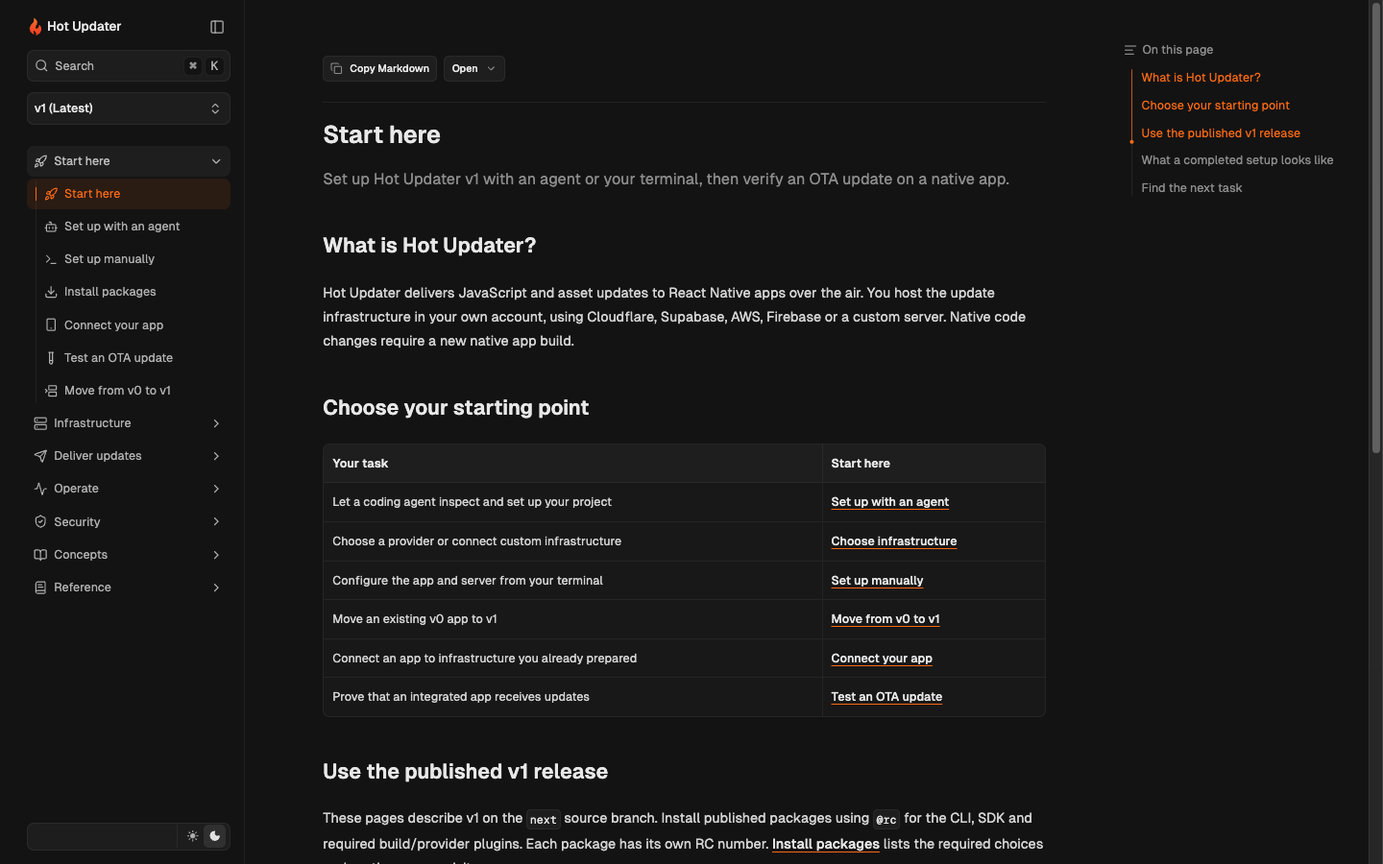
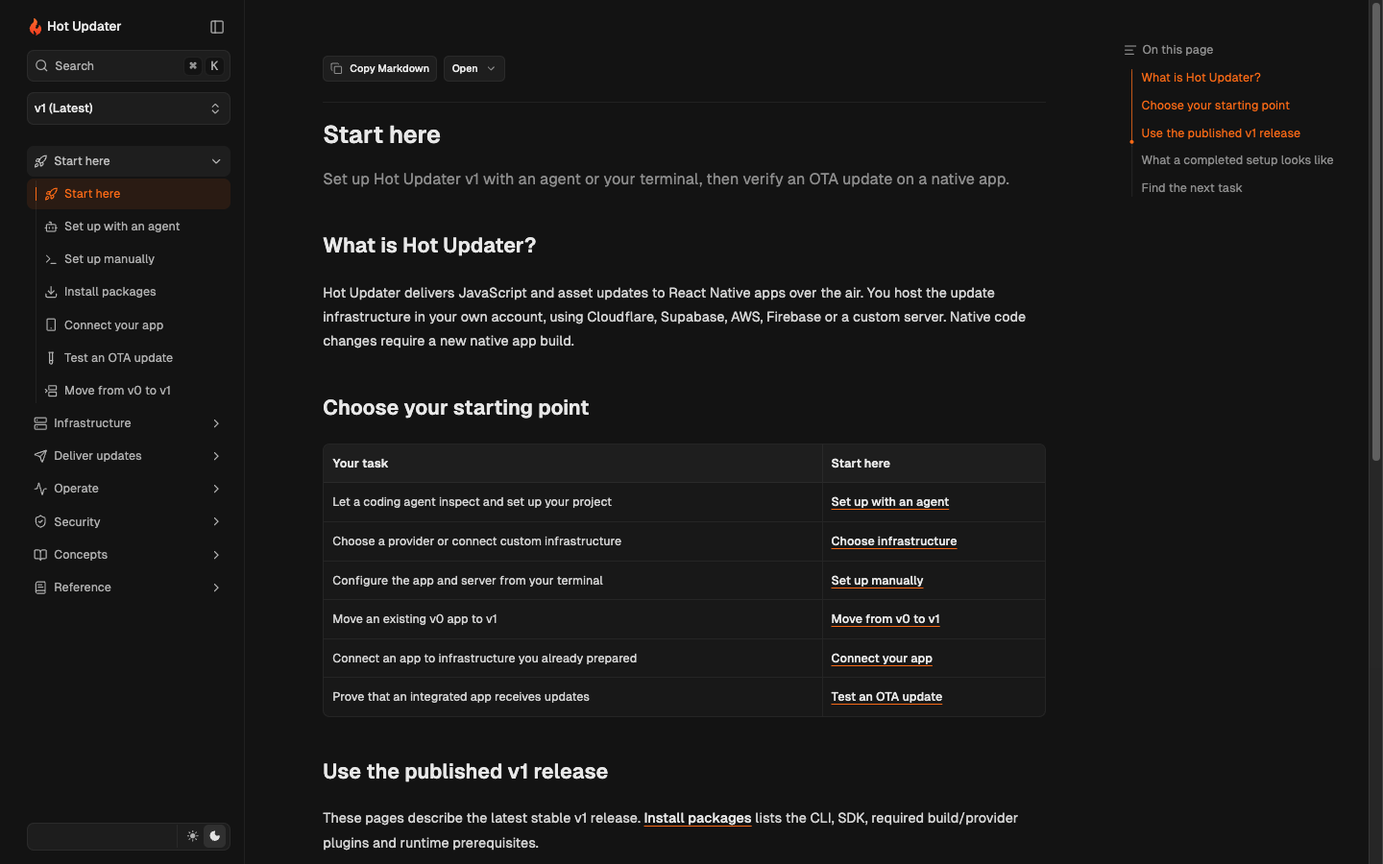
docs: target stable v1 releases in installation guides

Changed region(s): [[0.2188, 0.9333, 0.75, 0.9956]]

diff --git a/plans/docs-v1-onboarding/page-inventory.md b/plans/docs-v1-onboarding/page-inventory.md
@@ -6,18 +6,18 @@ Baseline: `next` at `ac67b805583b423d556ea0d62650b4cd2aa5006b`. All **86/86** ex
 
 | Page | Purpose / persona | Audit assessment | Accepted disposition in this PR |
 | --- | --- | --- | --- |
- | `build-plugins/bare.mdx` | Configure RN CLI bundling; app maintainer | 46 focused lines and accurate options; minification wording at 45 ambiguous (“handled by Hermes (disabled when Hermes is enabled)”). | Keep focused build reference; select @rc, clarify Hermes/Metro minification. |
- | `build-plugins/expo.mdx` | Configure Expo build + native config + DOM; Expo maintainer | 206 lines; basic build options are 12–36, DOM patch occupies 69–198 and is only for SDK <55. | Keep focused build reference and anchored DOM recipe; select @rc. Additional DOM-page split deferred. |
- | `build-plugins/rock.mdx` | Configure Rock build; Rock maintainer | 44 focused lines; distinct hermes option and defaults match `plugins/rock/src/index.ts:75+`. | Keep focused build reference; select @rc. Do not merge with Bare. |
+ | `build-plugins/bare.mdx` | Configure RN CLI bundling; app maintainer | 46 focused lines and accurate options; minification wording at 45 ambiguous (“handled by Hermes (disabled when Hermes is enabled)”). | Keep focused build reference; use untagged stable install commands, clarify Hermes/Metro minification. |
+ | `build-plugins/expo.mdx` | Configure Expo build + native config + DOM; Expo maintainer | 206 lines; basic build options are 12–36, DOM patch occupies 69–198 and is only for SDK <55. | Keep focused build reference and anchored DOM recipe; use untagged stable install commands. Additional DOM-page split deferred. |
+ | `build-plugins/rock.mdx` | Configure Rock build; Rock maintainer | 44 focused lines; distinct hermes option and defaults match `plugins/rock/src/index.ts:75+`. | Keep focused build reference; use untagged stable install commands. Do not merge with Bare. |
  | `concepts/automatic-rollback.mdx` | Understand/test native startup recovery | Core mechanism and exact Artifact ID blocking distinguish it from operational disable (111–128). Strong keeper; API samples repeat reference but lifecycle explanation useful. | Keep native recovery explanation and URL; move navigation to Operate, distinct from server policy rollback. |
  | `concepts/how-it-works.mdx` | Evaluate / understand Bundle identity, infrastructure and rollback | Strong concise v1 model (9–16, 39–62); keep Bundle vs Artifact distinction. Infrastructure link points to fragile old setup fragment (30). | Keep under Concepts; correct server-catalog/client-selection ownership and link startup/active-state verification. |
  | `concepts/plugin-system.mdx` | Choose/extend build, storage, database, signing plugins | Package decomposition is reference context, not first-run dependency. Signing protocol detail (23–46) dominates supported build overview. | Keep conceptual overview unchanged under Concepts; deeper protocol trimming deferred. |
  | `custom/api-key-authentication.mdx` | Bootstrap/rotate client keys; managed and custom operators | Distinguishes all key boundaries and managed bootstrap correctly; line 57 universally recommends `db migrate` although Drizzle/Prisma reject it. | Keep bootstrap/rotation task under Security; replace universal db migrate with adapter-specific schema preparation. |
  | `custom/cli-configuration.mdx` | Connect RN deploy tooling to existing server; operator | Configuration at 23–55 is task-specific. Options, secure/alternate authentication, custom routes and endpoint table at 70–178 duplicate `database-plugins/standalone`. | Keep one complete server-to-CLI connection task; merge options/HTTP-reference ownership into existing standalone page via links. |
- | `custom/database/drizzle.mdx` | Integrate Drizzle schema/adapter; existing Drizzle owner | Schema generation/Drizzle Kit flow is unique (64–100), while CLI configuration (102–145) and client endpoint table (146+) repeat unrelated layers. | Keep adapter-specific schema/runtime recipe; merge repeated CLI config into the canonical connection task via direct links; select @rc. |
- | `custom/database/kysely.mdx` | Integrate Kysely and migrations; existing Kysely owner | Generate/migrate distinction (62–92) is essential; CLI configuration from 94 and endpoints from 138 duplicate shared docs. | Keep adapter-specific schema/runtime recipe; merge repeated CLI config into the canonical connection task via direct links; select @rc. |
- | `custom/database/mongodb.mdx` | Integrate MongoDB with atomic writes; MongoDB owner | Replica set/sharded cluster requirement and `transactions: true` at 60 are consequential and must be found before install; rest repeats CLI/routes from 77. | Keep adapter-specific schema/runtime recipe; merge repeated CLI config into the canonical connection task via direct links; select @rc. |
- | `custom/database/prisma.mdx` | Integrate Prisma/generated schema; existing Prisma owner | Prisma 6.19.3 initial-client bootstrap and query semantics are unique; CLI block from 103/endpoints from 147 repeat all other adapters. | Keep adapter-specific schema/runtime recipe; merge repeated CLI config into the canonical connection task via direct links; select @rc. |
+ | `custom/database/drizzle.mdx` | Integrate Drizzle schema/adapter; existing Drizzle owner | Schema generation/Drizzle Kit flow is unique (64–100), while CLI configuration (102–145) and client endpoint table (146+) repeat unrelated layers. | Keep adapter-specific schema/runtime recipe; merge repeated CLI config into the canonical connection task via direct links; use untagged stable install commands. |
+ | `custom/database/kysely.mdx` | Integrate Kysely and migrations; existing Kysely owner | Generate/migrate distinction (62–92) is essential; CLI configuration from 94 and endpoints from 138 duplicate shared docs. | Keep adapter-specific schema/runtime recipe; merge repeated CLI config into the canonical connection task via direct links; use untagged stable install commands. |
+ | `custom/database/mongodb.mdx` | Integrate MongoDB with atomic writes; MongoDB owner | Replica set/sharded cluster requirement and `transactions: true` at 60 are consequential and must be found before install; rest repeats CLI/routes from 77. | Keep adapter-specific schema/runtime recipe; merge repeated CLI config into the canonical connection task via direct links; use untagged stable install commands. |
+ | `custom/database/prisma.mdx` | Integrate Prisma/generated schema; existing Prisma owner | Prisma 6.19.3 initial-client bootstrap and query semantics are unique; CLI block from 103/endpoints from 147 repeat all other adapters. | Keep adapter-specific schema/runtime recipe; merge repeated CLI config into the canonical connection task via direct links; use untagged stable install commands. |
  | `custom/database/sql-export.mdx` | Export SQL without config; DBA/infra agent | 76 focused lines; dialect and overwrite semantics differ from ORM generation and solve a separate job. | Keep focused reference and existing URL; reachable through task-oriented navigation. |
  | `custom/frameworks/elysia.mdx` | Mount scoped admin sub-app; Elysia owner | Bearer plugin and scoped hook differ from Hono/Express; optional Insights table at 100 is stale. | Keep framework-specific authentication and mounting; replace optional-Insights wording and duplicate mobile snippets with canonical app/CLI links. |
  | `custom/frameworks/express.mdx` | Mount Node adapter and protect handlers; Express owner | `toNodeHandler`, JSON body parser and mount-local auth are unique; optional Insights table at 111 is stale. | Keep framework-specific authentication and mounting; replace optional-Insights wording and duplicate mobile snippets with canonical app/CLI links. |
@@ -26,17 +26,17 @@ Baseline: `next` at `ac67b805583b423d556ea0d62650b4cd2aa5006b`. All **86/86** ex
  | `custom/hosting/vercel.mdx` | Deploy custom server on Vercel/Postgres; server deployer | Correct transaction-capable `pg` driver and env note; lines 188+ repeat RN CLI block; `.env.local` explicitly not loaded by hot-updater. | Keep Vercel deployment; consolidate CLI/app continuation and explicitly install the CLI for schema tooling. |
  | `custom/overview.mdx` | Choose self-hosting and compose existing stack; backend owner | Starts with two package-install blocks, then repeats CLI configuration at 33–73, detailed URI routing, handler policy and four ORM/three framework choices. | Rewrite as custom-server decision/architecture/schema map; remove repeated full app CLI tutorial and route to canonical tasks. |
  | `custom/quick-start.mdx` | One runnable self-hosted vertical slice; first-time backend owner/agent | Hono + SQLite + R2 setup has schema/key/bootstrap, but title omits chosen stack; next steps at 284 send back to already-completed CLI config; no first OTA success evidence. | Keep runnable Hono/SQLite/R2 server and CLI slice; merge native app instructions into app-setup. Require reachable HTTPS before release OTA test. |
- | `database-plugins/aws.mdx` | Configure DynamoDB provider/limits; integrator | Table command, strong reads, 8 KiB metadata and transaction cap are AWS-specific; “Complete Example” omits required build/updateStrategy. | Keep DynamoDB reference; select @rc and complete required build/updateStrategy fields in the example. |
- | `database-plugins/cloudflare.mdx` | Configure D1 API or Worker binding; integrator | Root versus `/worker` runtime boundary and schema readiness are distinct from managed setup. | Keep focused configuration/contract reference under Reference; use package-specific @rc where installed. No tutorial merge. |
+ | `database-plugins/aws.mdx` | Configure DynamoDB provider/limits; integrator | Table command, strong reads, 8 KiB metadata and transaction cap are AWS-specific; “Complete Example” omits required build/updateStrategy. | Keep DynamoDB reference; use untagged stable install commands and complete required build/updateStrategy fields in the example. |
+ | `database-plugins/cloudflare.mdx` | Configure D1 API or Worker binding; integrator | Root versus `/worker` runtime boundary and schema readiness are distinct from managed setup. | Keep focused configuration/contract reference under Reference; use untagged stable install commands. No tutorial merge. |
  | `database-plugins/custom-database.mdx` | Implement provider/conformance; plugin author | 448 lines; repeats Release models/CAS/catalog/schema from normative contract, but detailed Insights semantics and conformance recipe are unique. | Keep implementation/conformance guide; identify private test-utils as a repository workspace helper and verify its command. Large normative-content consolidation deferred to preserve exact contracts and anchors. |
- | `database-plugins/firestore.mdx` | Configure Firestore/ADC; integrator | New-private-key instruction at 36 conflicts with ADC guidance; env-block values are not loaded by shown snippet; duplicate firebase-admin install at 93. | Keep Firestore reference; select @rc, reuse ADC and clarify conditional credential-file loading. |
+ | `database-plugins/firestore.mdx` | Configure Firestore/ADC; integrator | New-private-key instruction at 36 conflicts with ADC guidance; env-block values are not loaded by shown snippet; duplicate firebase-admin install at 93. | Keep Firestore reference; use untagged stable install commands, reuse ADC and clarify conditional credential-file loading. |
  | `database-plugins/release-catalog-contract.mdx` | Normative persistence/CAS contract; provider author | Explicit normative page has useful exact semantics/acceptance; Status references PR #1141 and removed APIs while latest should describe current model. | Keep normative contract; replace PR-history introduction with current v1 scope. Large contract merge rejected. |
  | `database-plugins/standalone.mdx` | Configure remote management repository and implement its transport; CLI integrator/server author | 436 lines mix repository options with unrelated remote storage (54–102); full contract is valuable; documents no Insights/key proxy correctly. | Keep canonical options/transport reference; custom CLI task links here. Keep anchored remote storage section; separate storage page deferred. |
- | `database-plugins/supabase.mdx` | Configure Postgres RPC adapter and Edge export; integrator | Explicit existing-schema requirement and root/edge boundary useful; generic “Complete Example” partial fields. | Keep focused configuration/contract reference under Reference; use package-specific @rc where installed. No tutorial merge. |
+ | `database-plugins/supabase.mdx` | Configure Postgres RPC adapter and Edge export; integrator | Explicit existing-schema requirement and root/edge boundary useful; generic “Complete Example” partial fields. | Keep focused configuration/contract reference under Reference; use untagged stable install commands. No tutorial merge. |
  | `get-started/basic-usage.mdx` | Manual integration; currently also agent bootstrap, native and deploy | 619 lines mixes three tasks; untagged CLI (19); native setup dominates (283–567); release test late optional link (618). | Split into this ordered manual hub, installation and app-setup; verification lives at simulator-test. Preserve previous setup section anchors. |
- | `get-started/introduction.mdx` | New/evaluating user landing | No actionable start, no rc/upgrade boundary, begins with video and CodePush comparison (7–26). | Rewrite as Start here at the same URL; direct agent/manual/migration choices and completion contract. |
+ | `get-started/introduction.mdx` | New/evaluating user landing | No actionable start, no version/upgrade boundary, begins with video and CodePush comparison (7–26). | Rewrite as Start here at the same URL; direct agent/manual/migration choices and completion contract. |
  | `guides/agent-infrastructure.mdx` | Agent/operator needing scaffold contract, resume and infra upgrade | Detailed output/resume/evidence content is valuable (56–77, 114–178); not appropriate duplicate quickstart. | Keep detailed scaffold/resume/upgrade contract under Infrastructure; use canonical installation and agent entry. |
- | `guides/ai-agents.mdx` | Human directing a coding agent | Prompt only provisions infrastructure; repeats reference; does not give verified first OTA contract (23–59). | Rewrite/promote to Start here; complete RC-to-native-to-verified-OTA request; detailed scaffold reference stays separate. |
+ | `guides/ai-agents.mdx` | Human directing a coding agent | Prompt only provisions infrastructure; repeats reference; does not give verified first OTA contract (23–59). | Rewrite/promote to Start here; complete install-to-native-to-verified-OTA request; detailed scaffold reference stays separate. |
  | `guides/bundle-diffing.mdx` | Operator optimizes and diagnoses artifact downloads | Useful defaults/byte-route/fallback detail (70–106), but repeats usage/concept several times. | Keep distinct task and existing URL; place in Deliver updates or Operate. Additional prose/recipe restructuring deferred. |
  | `guides/bundle-signing.mdx` | App owner configures trusted artifacts; CI owner/KMS/service implementer | Local baseline buried line424; 659 lines mix 4 personas; repeated native anchoring. | Split four signer recipes into guides/signing; keep shared trust-anchor rollout, rotation and troubleshooting. Preserve original heading anchors. |
  | `guides/channel-management.mdx` | Embed default channel before native build | Native and Expo settings are valuable; repeats all release-build commands (126–165); full wrapper omits managed key (200). | Keep default-channel task; preserve authenticated client setup in example. Broader release-command deduplication not included. |
@@ -49,7 +49,7 @@ Baseline: `next` at `ac67b805583b423d556ea0d62650b4cd2aa5006b`. All **86/86** ex
  | `guides/console.mdx` | Operator opens/configures Console and changes release state | Mixes local launch, hosting auth, CLI ops, 50-line metrics reference and promotion. | Split Insights into guides/insights; retain Console management and original Insights anchor as a link. Clarify force-update timing. |
  | `guides/custom-update.mdx` | Developer implements own update lifecycle/UI | Correct null-vs-failure distinction (83), result helper usage (97), full lifecycle. ~135-line UI sample dominates; channel sections duplicate canonical guide. | Keep manual update workflow; merge reference-page tutorials here via links, remove old manual-wrap comparison, clarify init/reporting and verification. |
  | `guides/deploy.mdx` | Operator/CI publishing bundles | Wrong onboarding prerequisite link to Supabase only (19); examples repeat flags and nonexecutable placeholder platform strings (110 etc). Actual ID/rollout defaults valuable. | Keep under Deliver updates; correct provider-neutral setup and init/wrap prerequisites, link first-OTA test. Keep existing option reference rather than another release-management page. |
- | `guides/doctor.mdx` | Diagnose local/infra issues or automate recovery | Clear `--json` nonprompt behavior and fixability boundaries; same-version advice wrong (124), sample output stale compared with semantic UI source. | Keep under Operate; correct RC compatibility and link installation/verification. No runtime doctor change. |
+ | `guides/doctor.mdx` | Diagnose local/infra issues or automate recovery | Clear `--json` nonprompt behavior and fixability boundaries; same-version advice wrong (124), sample output stale compared with semantic UI source. | Keep under Operate; clarify stable v1 compatibility and link installation/verification. No runtime doctor change. |
  | `guides/infrastructure-templates.mdx` | Operator extracting/deploying server templates without agent | Distinct nonexecuting extractor contract (18–20) and provider escaping formats (54–68) cannot disappear into agent prose. | Keep extraction reference under Infrastructure; explicit v1 CLI prerequisite and shared install link. |
  | `guides/native-build.mdx` | Optional experimental Hot Updater native build CLI user | Different from required AppDelegate integration; stays separate. Example calls nonexistent configured `debugApk` (136 vs config 28–61); default-channel prerequisite (18) conflicts with default production behavior. Not listed in current guides metadata. | Keep optional tooling guide and add missing navigation entry; correct scheme example and default-channel prerequisite. |
  | `guides/rollout-cohorts.mdx` | QA/release manager controlling audience | Exact stable seeded selection and custom-cohort union semantics needed; 411 screenshot flow repeats itself; line14 calls selected Bundle “immutable Bundle,” confusing identity. | Keep distinct task and existing URL; place in Deliver updates or Operate. Additional prose/recipe restructuring deferred. |
@@ -59,13 +59,13 @@ Baseline: `next` at `ac67b805583b423d556ea0d62650b4cd2aa5006b`. All **86/86** ex
  | `guides/update-strategies/app-version.mdx` | Developer chooses explicit native version compatibility | Default strategy is established; dangerous broad wildcard example without native compatibility caveat; duplicate unauthenticated wrapper/curl. | Keep separate strategy alternative; preserve client auth and distinguish unauthenticated 401 from catalog/OTA verification. |
  | `guides/update-strategies/fingerprint.mdx` | Developer opts into native fingerprint targeting | Workflow/native regeneration and extras need dedicated reference; “only safe updates” (11) overclaims what hashing can prove; missing auth examples. | Keep separate strategy alternative; preserve client auth and distinguish unauthenticated 401 from catalog/OTA verification. |
  | `guides/upgrade-to-v1.mdx` | Existing v0 operator | Strong separate-native/new-endpoint/data preservation and device tests (12–29, 72–98, 190–225). This is the one place v0 transitions belong. | Keep/promote under Start here; preserve the migration safety procedure and link shared package selection. |
- | `integration-plugins/bugsnag.mdx` | Upload/map OTA sourcemaps; app observability owner | Uses manifest artifact ID, matching plugin's bundle-ID default; three build tabs genuinely aid selection. | Keep independently searchable sourcemap integration; select @rc and add an actual symbolication verification outcome. |
- | `integration-plugins/datadog.mdx` | Upload OTA sourcemaps; app observability owner | Requires buildNumber/releaseVersion/service matching runtime; jumps Step 1 to Step 3 with no runtime-matching recipe or success verification. | Keep independently searchable sourcemap integration; select @rc and add an actual symbolication verification outcome. |
- | `integration-plugins/sentry.mdx` | Configure debug IDs/upload sourcemaps; app observability owner | Metro/Re.Pack debug-ID setup is unique and plugin reads debug IDs; stops at deploy rather than verified symbolication. | Keep independently searchable sourcemap integration; select @rc and add an actual symbolication verification outcome. |
- | `managed/aws.mdx` | Provision and operate AWS OTA; app owner/agent | 710 lines; native integration starts at 414, verification at 703 says dashboard/test app; cost/capacity at 242 is useful AWS-specific operation knowledge. | Merge repeated runtime/native integration into app-setup; keep provider-specific setup, exact URL/client-key outputs and original Step 3/4/5 link anchors. Require doctor + OTA handoff; select @rc. |
- | `managed/cloudflare.mdx` | Provision D1/R2/Worker; app owner/agent | 577 lines; native code starts 281, end at 570 lacks executable finish; API versus R2 credentials and Worker cache verification are provider-specific. | Merge repeated runtime/native integration into app-setup; keep provider-specific setup, exact URL/client-key outputs and original Step 3/4/5 link anchors. Require doctor + OTA handoff; select @rc. |
- | `managed/firebase.mdx` | Provision Firestore/Storage/Function; app owner/agent | 581 lines; prerequisites 22–25 ask for precreated project/Storage/Firestore despite agent creating them; ADC reuse at 190 and origin-only cache are useful. | Merge repeated runtime/native integration into app-setup; keep provider-specific setup, exact URL/client-key outputs and original Step 3/4/5 link anchors. Require doctor + OTA handoff; select @rc. |
- | `managed/supabase.mdx` | Provision Postgres/Storage/Edge Function; app owner/agent | 582 lines; native code starts 286; resource names and origin-only cache at 220–250 prevent incorrect CDN claims. | Merge repeated runtime/native integration into app-setup; keep provider-specific setup, exact URL/client-key outputs and original Step 3/4/5 link anchors. Require doctor + OTA handoff; select @rc. |
+ | `integration-plugins/bugsnag.mdx` | Upload/map OTA sourcemaps; app observability owner | Uses manifest artifact ID, matching plugin's bundle-ID default; three build tabs genuinely aid selection. | Keep independently searchable sourcemap integration; use untagged stable install commands and add an actual symbolication verification outcome. |
+ | `integration-plugins/datadog.mdx` | Upload OTA sourcemaps; app observability owner | Requires buildNumber/releaseVersion/service matching runtime; jumps Step 1 to Step 3 with no runtime-matching recipe or success verification. | Keep independently searchable sourcemap integration; use untagged stable install commands and add an actual symbolication verification outcome. |
+ | `integration-plugins/sentry.mdx` | Configure debug IDs/upload sourcemaps; app observability owner | Metro/Re.Pack debug-ID setup is unique and plugin reads debug IDs; stops at deploy rather than verified symbolication. | Keep independently searchable sourcemap integration; use untagged stable install commands and add an actual symbolication verification outcome. |
+ | `managed/aws.mdx` | Provision and operate AWS OTA; app owner/agent | 710 lines; native integration starts at 414, verification at 703 says dashboard/test app; cost/capacity at 242 is useful AWS-specific operation knowledge. | Merge repeated runtime/native integration into app-setup; keep provider-specific setup, exact URL/client-key outputs and original Step 3/4/5 link anchors. Require doctor + OTA handoff; use untagged stable install commands. |
+ | `managed/cloudflare.mdx` | Provision D1/R2/Worker; app owner/agent | 577 lines; native code starts 281, end at 570 lacks executable finish; API versus R2 credentials and Worker cache verification are provider-specific. | Merge repeated runtime/native integration into app-setup; keep provider-specific setup, exact URL/client-key outputs and original Step 3/4/5 link anchors. Require doctor + OTA handoff; use untagged stable install commands. |
+ | `managed/firebase.mdx` | Provision Firestore/Storage/Function; app owner/agent | 581 lines; prerequisites 22–25 ask for precreated project/Storage/Firestore despite agent creating them; ADC reuse at 190 and origin-only cache are useful. | Merge repeated runtime/native integration into app-setup; keep provider-specific setup, exact URL/client-key outputs and original Step 3/4/5 link anchors. Require doctor + OTA handoff; use untagged stable install commands. |
+ | `managed/supabase.mdx` | Provision Postgres/Storage/Edge Function; app owner/agent | 582 lines; native code starts 286; resource names and origin-only cache at 220–250 prevent incorrect CDN claims. | Merge repeated runtime/native integration into app-setup; keep provider-specific setup, exact URL/client-key outputs and original Step 3/4/5 link anchors. Require doctor + OTA handoff; use untagged stable install commands. |
  | `policy/app-review.mdx` | Native compatibility and store policy boundary; release owner | Authoritative Apple/Google links present and appropriately warns technical compatibility does not imply review exemption. Repeated long examples obscure decision. | Reorganize native-compatibility decision and existing policy links; preserve separate ownership and avoid approval guarantees. |
  | `policy/security.mdx` | Credential exposure and trust boundaries; app/server implementer + agent | Correct distinction client key vs provider credential buried after 50 lines. Focus on environment inliners leaves admin/signing/reporting structure implicit. Line 79 contains raw non-comment annotation in JS. | Rewrite around credential/trust boundary matrix; link setup, signing and Insights. Preserve plugin-token-protection anchor. |
  | `react-native-api/addListener.mdx` | Raw progress events and side effects; integrator | Complete discriminated progress event, cleanup example, and correct hook recommendation. | Keep focused symbol reference unchanged; categorize under API navigation/overview. Further optional sample trimming is deferred. |
@@ -87,11 +87,11 @@ Baseline: `next` at `ac67b805583b423d556ea0d62650b4cd2aa5006b`. All **86/86** ex
  | `react-native-api/updateBundle.mdx` | Stage downloaded content or selected transition; advanced SDK user | Correct helper-first and no-reload semantics. Parameter table admits null fileHash without stating downloads reject it; hash verification prose omits that configured public key rejects unsigned hashes. | Keep staging API and helper-first flow; clarify direct-call hash/signing rules and shared initialization headers. |
  | `react-native-api/useHotUpdaterStore.mdx` | Render download UI; React developer | Correct fields and selector usage, meaningfully different from nonreactive getter and raw events. | Keep focused symbol reference unchanged; categorize under API navigation/overview. Further optional sample trimming is deferred. |
  | `react-native-api/wrap.mdx` | Automatic startup integration; mobile implementer / coding agent | Lines 59–116 duplicate a full manual init/check flow; lines 346–366 repeat the protocol contract. Important force/staging and completion-callback timing are already correct. Options miss new fallback progress fields, and baseURL type needs parentheses. | Keep symbol URL; remove duplicated manual tutorial/protocol detail, link canonical owners, correct options/fallback fields. |
- | `storage-plugins/aws.mdx` | Configure S3/S3-compatible object storage; integrator | Signed-download configuration and storage-prefix prune ownership (85–103) are separate from AWS managed provisioning. | Keep focused configuration/contract reference under Reference; use package-specific @rc where installed. No tutorial merge. |
- | `storage-plugins/cloudflare.mdx` | Configure R2 S3 transport; integrator | 72 focused lines; `r2://` differs from `s3Storage` on R2; line 37 says fallback “is removed,” a migration comparison in latest reference. | Keep R2 reference; select @rc and describe current credential requirement without migration comparison. |
- | `storage-plugins/custom-storage.mdx` | Implement storage provider; plugin author | Flat Web-stream contract, URI ownership, capability matrix and exact-delete semantics are relevant standalone contract knowledge. | Keep focused configuration/contract reference under Reference; use package-specific @rc where installed. No tutorial merge. |
- | `storage-plugins/firebase.mdx` | Configure Firebase Storage; integrator | Env block at 39 tells everyone to download new private key; managed guide/agent environment correctly use existing ADC conditionally. | Keep Firebase storage reference; select @rc, reuse ADC and clarify conditional credential-file loading. |
- | `storage-plugins/supabase.mdx` | Configure Supabase storage; integrator | Small config/protocol/runtime reference with useful edge subpath and buffering behavior. | Keep focused configuration/contract reference under Reference; use package-specific @rc where installed. No tutorial merge. |
+ | `storage-plugins/aws.mdx` | Configure S3/S3-compatible object storage; integrator | Signed-download configuration and storage-prefix prune ownership (85–103) are separate from AWS managed provisioning. | Keep focused configuration/contract reference under Reference; use untagged stable install commands. No tutorial merge. |
+ | `storage-plugins/cloudflare.mdx` | Configure R2 S3 transport; integrator | 72 focused lines; `r2://` differs from `s3Storage` on R2; line 37 says fallback “is removed,” a migration comparison in latest reference. | Keep R2 reference; use untagged stable install commands and describe current credential requirement without migration comparison. |
+ | `storage-plugins/custom-storage.mdx` | Implement storage provider; plugin author | Flat Web-stream contract, URI ownership, capability matrix and exact-delete semantics are relevant standalone contract knowledge. | Keep focused configuration/contract reference under Reference; use untagged stable install commands. No tutorial merge. |
+ | `storage-plugins/firebase.mdx` | Configure Firebase Storage; integrator | Env block at 39 tells everyone to download new private key; managed guide/agent environment correctly use existing ADC conditionally. | Keep Firebase storage reference; use untagged stable install commands, reuse ADC and clarify conditional credential-file loading. |
+ | `storage-plugins/supabase.mdx` | Configure Supabase storage; integrator | Small config/protocol/runtime reference with useful edge subpath and buffering behavior. | Keep focused configuration/contract reference under Reference; use untagged stable install commands. No tutorial merge. |
 
 ## New canonical pages
 

diff --git a/plans/docs-v1-onboarding/decisions.md b/plans/docs-v1-onboarding/decisions.md
@@ -43,22 +43,26 @@ Android/iOS blocks. `packages/react-native/src/index.ts` exposes a selected
 `getBundleId` that may change before reload. The existing agent server probe
 explicitly excludes artifact download and native verification.
 
-## 3. Preinstall each required package from its own RC tag
+## 3. Target stable releases in latest documentation
 
-**Proposal:** Change the CLI install to `hot-updater@rc`.
+**Proposal:** Pin install examples to each package's release-candidate tag
+because the audit began during the v1 prerelease.
 
-**Objection:** The CLI's missing-package installer derives plugin versions from
-the CLI version, while the SDK, build plugins and providers have independent RC
-numbers. Changing only the CLI leaves first-run installation unreliable.
+**Objection:** Latest documentation must remain useful after the stable release.
+A temporary prerelease channel would persist in copied commands and agent
+prompts, requiring another sweep before every release transition.
 
-**Decision:** Install the SDK, CLI, chosen build and provider packages from each
-package's own npm `rc` tag before init/scaffold. Record resolved versions and
-keep the lockfile. Teach doctor compatibility in terms of release/channel,
-not identical package versions. No runtime installer change in this PR.
+**Decision:** Use untagged package names throughout latest installation examples,
+agent prompts and migration instructions. Write for the stable v1 release and
+keep the RC release as audit context only. The maintainer clarified this policy
+after reviewing the first PR. Preinstall the SDK, CLI and chosen build/provider
+packages, record installed versions and keep the lockfile. The skill still does
+not install or upgrade the CLI by itself.
 
-**Evidence checked:** `packages/hot-updater/src/utils/ensureInstallPackages.ts`,
-`packages/cli-tools/src/ensureInstallPackages.ts`, package manifests, and
-`areVersionsCompatible` in `packages/hot-updater/src/commands/doctor.ts`.
+**Evidence checked:** The initializer's package installer, package manifests and
+`areVersionsCompatible` in `packages/hot-updater/src/commands/doctor.ts` informed
+the installation prerequisites. A transient registry tag does not define the
+long-term documentation policy. No runtime installer change in this PR.
 
 ## 4. Retain provider and method references
 

diff --git a/plans/docs-v1-onboarding/prd.md b/plans/docs-v1-onboarding/prd.md
@@ -34,8 +34,9 @@ architecture/release records. Keep v0-to-v1 transition instructions in
 ## Requirements
 
 1. Put a clear v1 entry and agent/manual paths before concepts and references.
-2. Make release selection explicit and consistent with the published npm `rc`
-   tags. Installing a skill alone must not imply a compatible CLI is installed.
+2. Write latest documentation for stable v1 releases, using untagged package
+   installation commands. Installing a skill alone must not imply a compatible
+   CLI is installed.
 3. Split pages by independently executable tasks; merge duplicated workflow
    explanations into one owner. Do not split just to meet a line-count target.
 4. Define setup outputs and distinguish scaffold generation, deployed-server
@@ -85,7 +86,7 @@ Verified on September 9, 2026:
 | --- | --- |
 | Page ownership and links | All 98 latest pages appear exactly once in navigation and the LLM index; internal route, fragment and asset checks pass |
 | Live production routes | All 98 HTML and 98 Markdown page URLs return successfully; canonical API index and its compatibility alias return identical Markdown |
-| Markdown fidelity | All 997 fenced code blocks and 794 link destinations survive serialization across the 174 latest and archived source pages |
+| Markdown fidelity | All 997 fenced code blocks and 793 link destinations survive serialization across the 174 latest and archived source pages |
 | Docs regressions | `pnpm --dir docs test:docs`: 2 files, 5 tests pass |
 | Production build | `pnpm -w build` and final `pnpm --dir docs build` pass; no dead links |
 | Static checks | `pnpm --dir docs test:type`, `pnpm -w lint` and `git diff --check` pass |

diff --git a/docs/CLAUDE.md b/docs/CLAUDE.md
@@ -37,13 +37,13 @@ guide; do not duplicate its page inventory here.
 ## Examples and package selection
 
 Use a full npm command in a `package-install` fence for installation. The site
-provides package-manager alternatives. For current v1 RC documentation, use each
-required Hot Updater package's own `@rc` tag; RC numbers differ between packages.
+provides package-manager alternatives. Latest documentation targets stable
+releases: use package names without prerelease tags in installation commands.
 The complete package list belongs in `get-started/installation.mdx`.
 
 ```package-install
-npm install @hot-updater/react-native@rc
-npm install hot-updater@rc @hot-updater/bare@rc --save-dev
+npm install @hot-updater/react-native
+npm install hot-updater @hot-updater/bare --save-dev
 ```
 
 Runtime imports are regular dependencies. Build/deploy/config-only packages are
